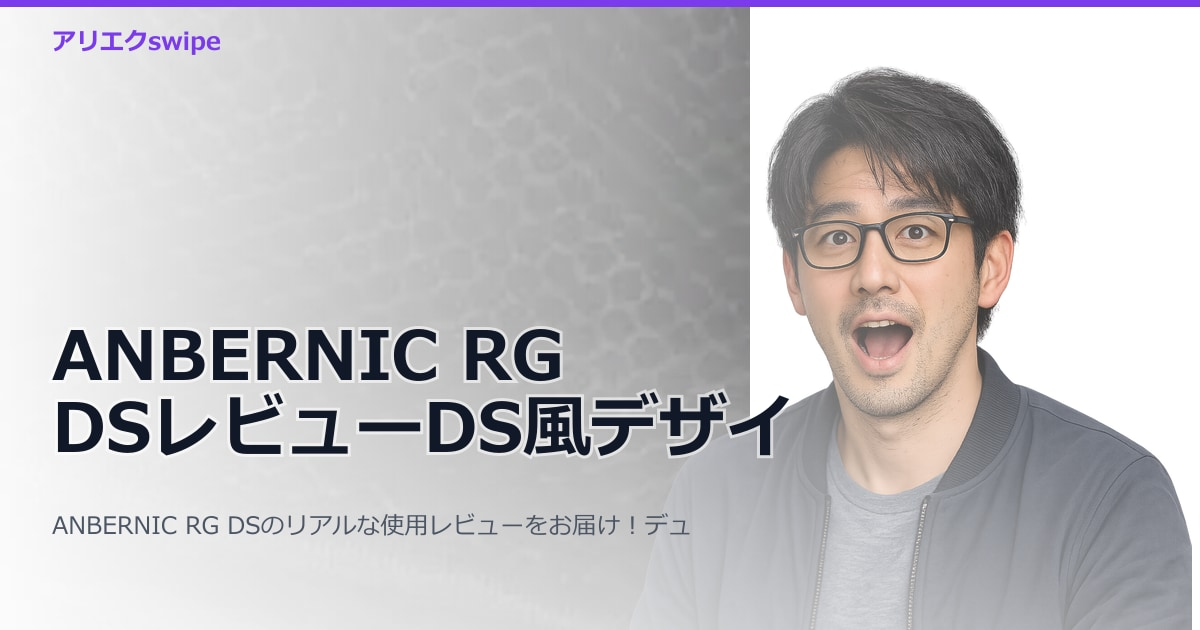
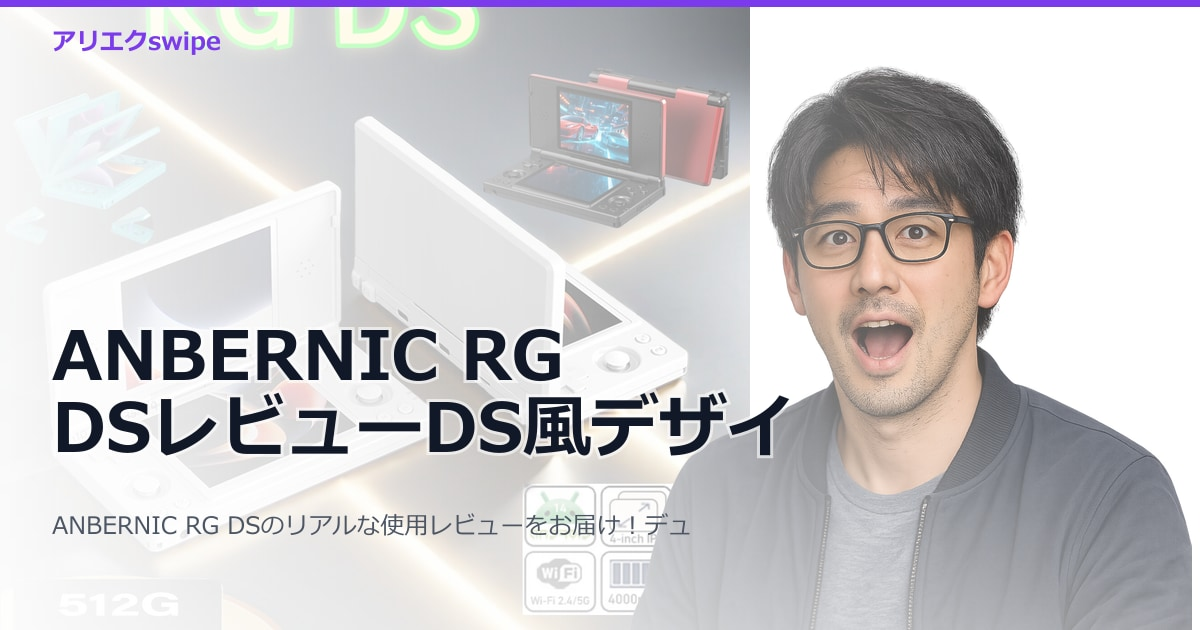
ANBERNIC RG DS記事サムネイル修正：ケース画像→本体画像に差し替え

diff --git a/public/game/anbernic-rg-ds-osusume.html b/public/game/anbernic-rg-ds-osusume.html
@@ -1,4 +1,4 @@
-<!DOCTYPE html>
+<!DOCTYPE html>
 <html lang="ja">
 <head>
   <meta charset="UTF-8" />
@@ -279,7 +279,7 @@
     <p>この記事では、ANBERNIC RG DSの外観・スペック・操作感・バッテリー・AliExpressでの購入方法まで、DS世代のレトロゲーム機オタクとして全方位から掘り下げる。「買うべきかどうか迷っている」という人は最後まで読んでほしい。</p>
 
     <figure class="fv-product-image">
-  <img src="/images/products/anbernic-rg-ds-osusume/aeea4bca.jpg" alt="ANBERNIC RG DS" loading="eager">
+  <img src="/images/products/anbernic-rg-ds-osusume/55cd4e1f.jpg" alt="ANBERNIC RG DS" loading="eager">
 </figure>
 <nav class="toc">
   <div class="toc-title">📋 この記事の目次</div>
@@ -310,10 +310,10 @@
 
     <div class="product-carousel" data-carousel>
       <div class="carousel-track">
-        <img src="/images/products/anbernic-rg-ds-osusume/aeea4bca.jpg" alt="ANBERNIC RG DS 外観" loading="lazy">
-        <img src="/images/products/anbernic-rg-ds-osusume/93c43e64.jpg" alt="ANBERNIC RG DS 開いた状態" loading="lazy">
-        <img src="/images/products/anbernic-rg-ds-osusume/a9dc6de6.jpg" alt="ANBERNIC RG DS ボタン配置" loading="lazy">
-        <img src="/images/products/anbernic-rg-ds-osusume/46615b7f.jpg" alt="ANBERNIC RG DS カラーバリエーション" loading="lazy">
+        <img src="/images/products/anbernic-rg-ds-osusume/55cd4e1f.jpg" alt="ANBERNIC RG DS 外観" loading="lazy">
+        <img src="/images/products/anbernic-rg-ds-osusume/3f547ed8.png" alt="ANBERNIC RG DS 開いた状態" loading="lazy">
+        <img src="/images/products/anbernic-rg-ds-osusume/24af1743.jpg" alt="ANBERNIC RG DS ボタン配置" loading="lazy">
+        <img src="/images/products/anbernic-rg-ds-osusume/ece77549.png" alt="ANBERNIC RG DS カラーバリエーション" loading="lazy">
       </div>
       <button class="carousel-btn prev" aria-label="前の画像">&#8249;</button>
       <button class="carousel-btn next" aria-label="次の画像">&#8250;</button>
@@ -346,10 +346,10 @@
 
     <div class="product-carousel" data-carousel>
       <div class="carousel-track">
-        <img src="/images/products/anbernic-rg-ds-osusume/aeea4bca.jpg" alt="ANBERNIC RG DS スペック" loading="lazy">
-        <img src="/images/products/anbernic-rg-ds-osusume/93c43e64.jpg" alt="ANBERNIC RG DS 内部構造" loading="lazy">
-        <img src="/images/products/anbernic-rg-ds-osusume/a9dc6de6.jpg" alt="ANBERNIC RG DS エミュレーター動作" loading="lazy">
-        <img src="/images/products/anbernic-rg-ds-osusume/46615b7f.jpg" alt="ANBERNIC RG DS microSDスロット" loading="lazy">
+        <img src="/images/products/anbernic-rg-ds-osusume/55cd4e1f.jpg" alt="ANBERNIC RG DS スペック" loading="lazy">
+        <img src="/images/products/anbernic-rg-ds-osusume/3f547ed8.png" alt="ANBERNIC RG DS 内部構造" loading="lazy">
+        <img src="/images/products/anbernic-rg-ds-osusume/24af1743.jpg" alt="ANBERNIC RG DS エミュレーター動作" loading="lazy">
+        <img src="/images/products/anbernic-rg-ds-osusume/ece77549.png" alt="ANBERNIC RG DS microSDスロット" loading="lazy">
       </div>
       <button class="carousel-btn prev" aria-label="前の画像">&#8249;</button>
       <button class="carousel-btn next" aria-label="次の画像">&#8250;</button>
